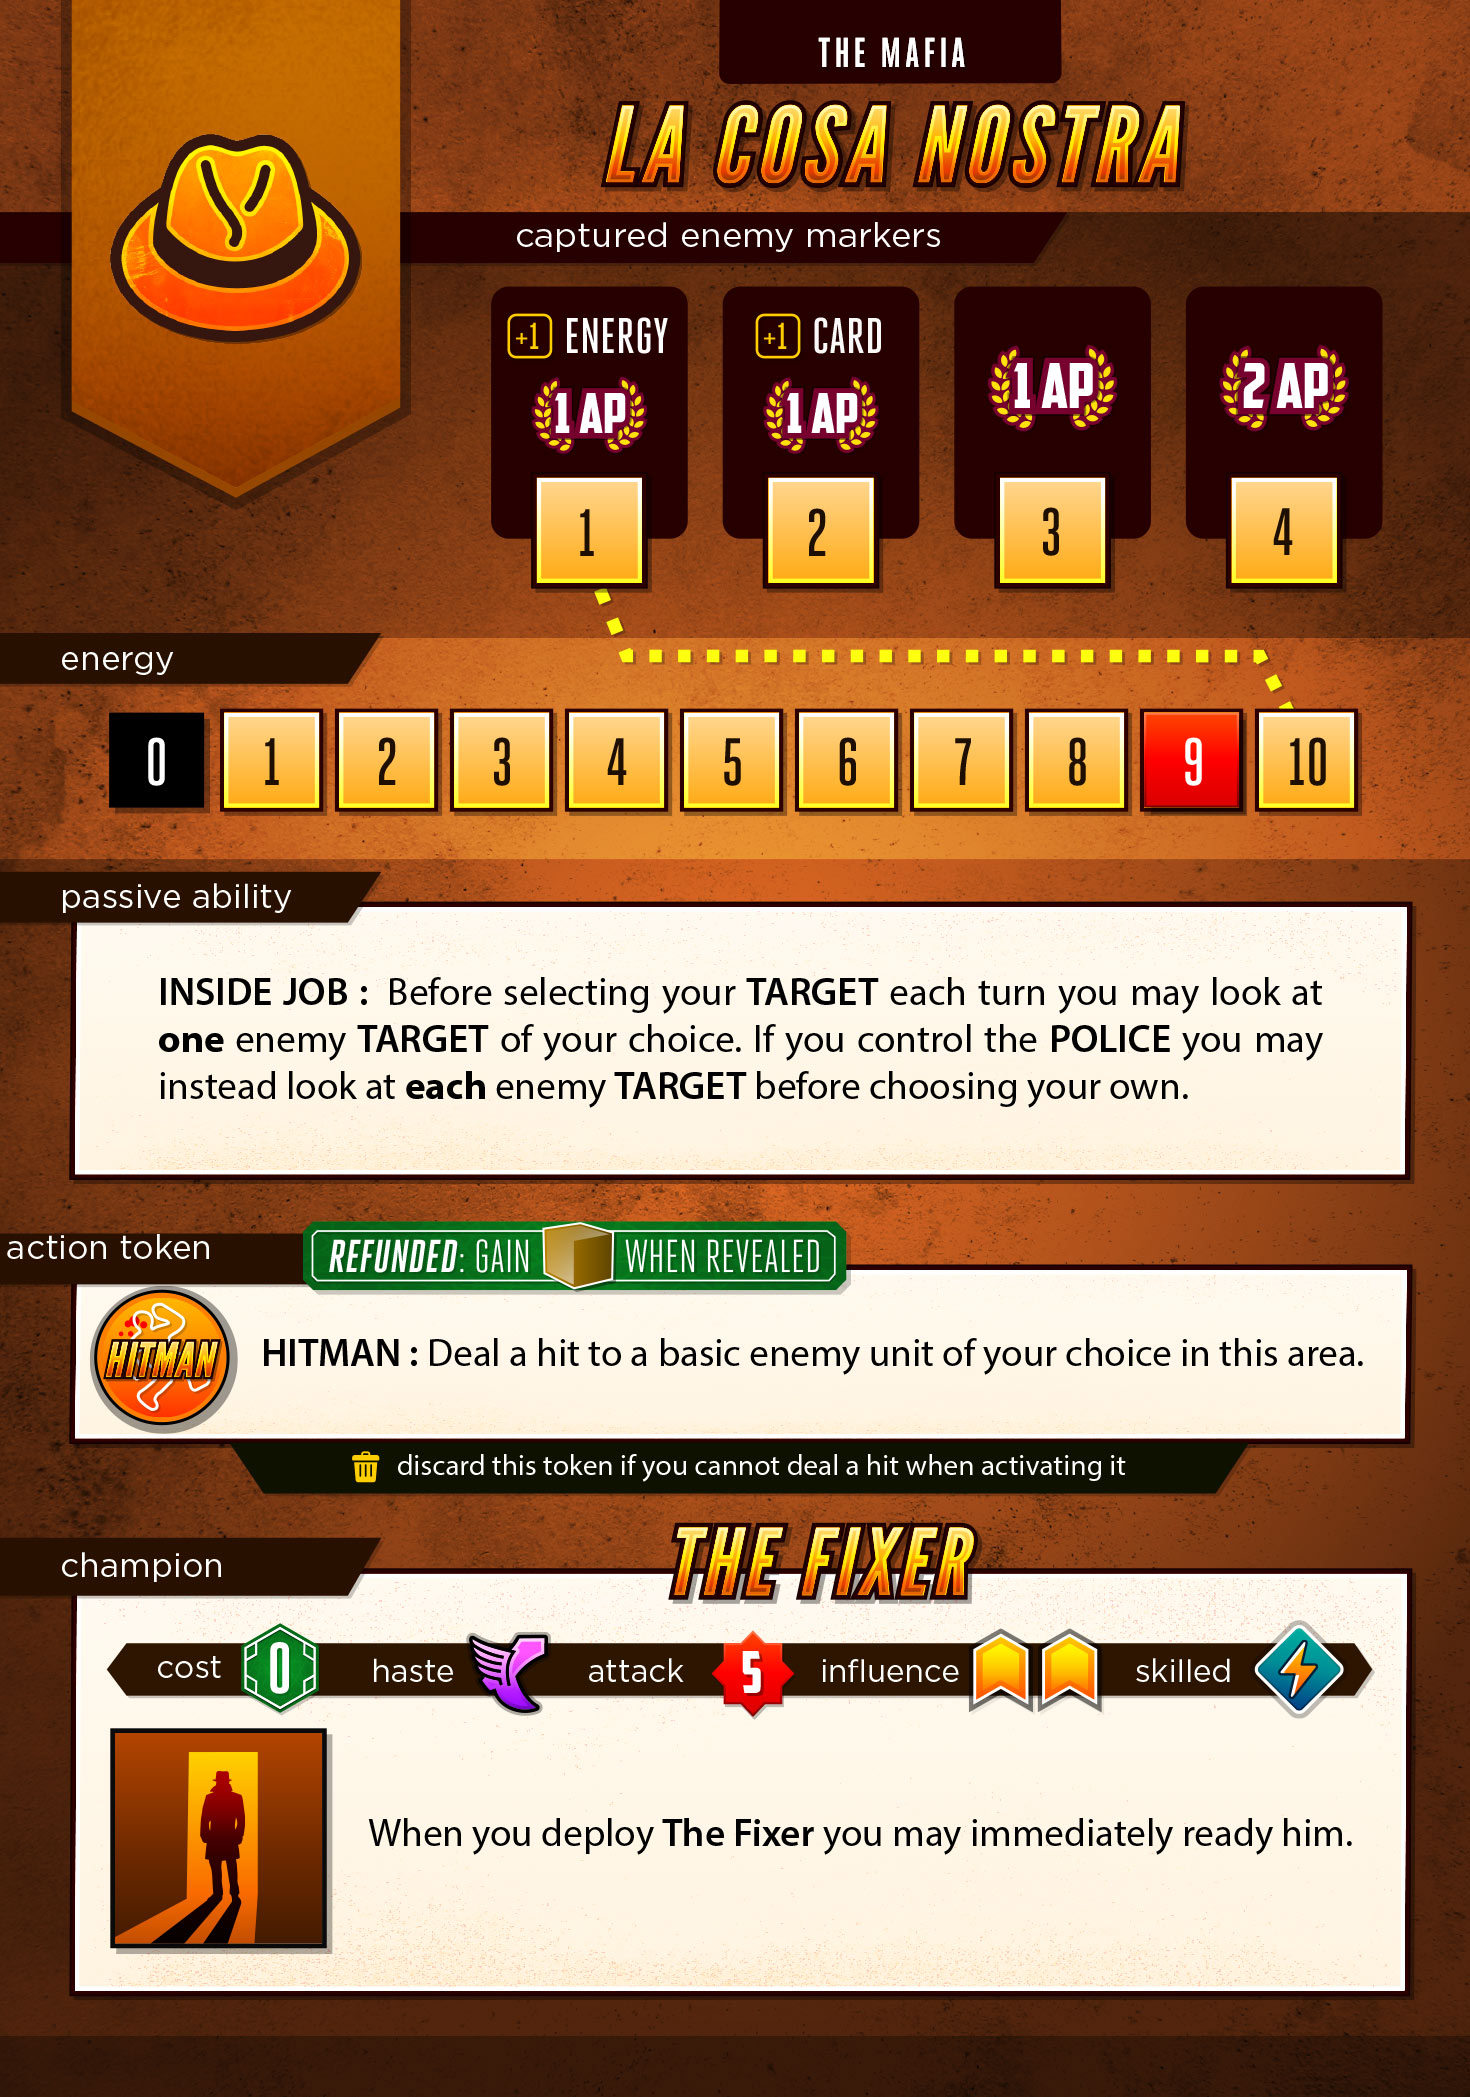
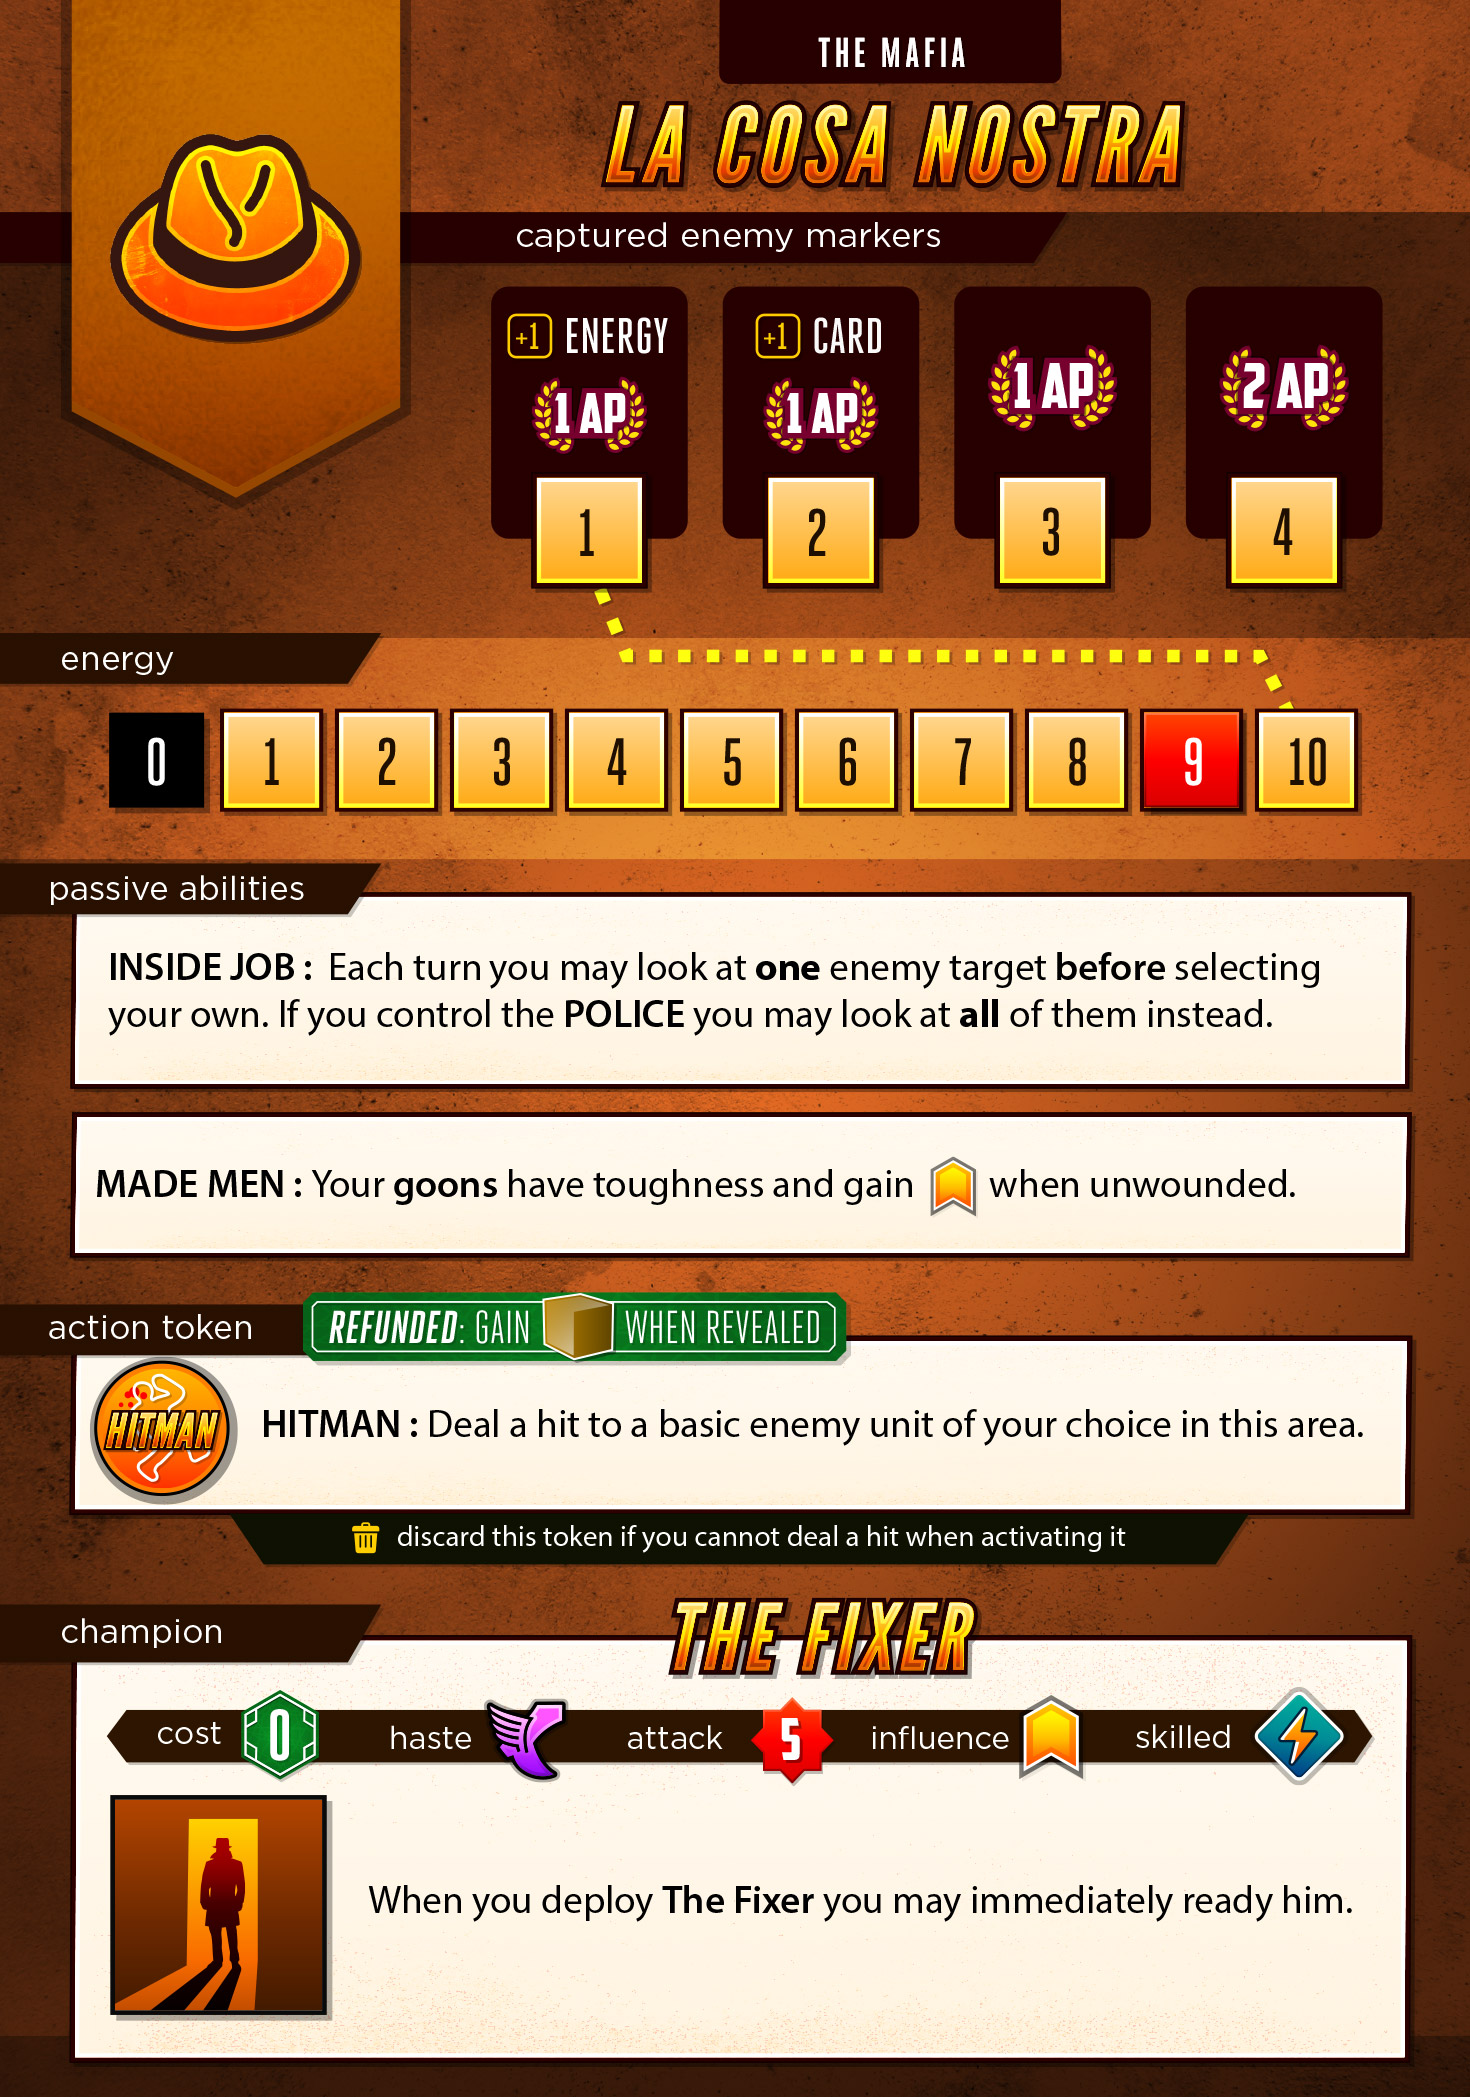
MAFIA: Improve goons, reduce fixer influence

diff --git a/server/classes/factions/Mafia.js b/server/classes/factions/Mafia.js
@@ -35,6 +35,10 @@ class Mafia extends Faction {
         // units
         this.units['talent'].count = 2;
         this.units['patsy'].count = 5;
+        this.units['goon'].data.influence = 2;
+        this.units['goon'].data.toughness = true;
+        this.units['goon'].data.flipped = false;
+        this.units['goon'].data.onWounded = 'onGoonWounded';
 
         this.units['champion'] = {
             count: 1,
@@ -45,7 +49,7 @@ class Mafia extends Faction {
                 type: 'champion',
                 onDeploy : 'fixerDeploy',
                 basic: false,
-                influence: 2,
+                influence: 1,
                 attack: [5],
                 cost: 0,
                 killed : false,
@@ -75,6 +79,14 @@ class Mafia extends Faction {
 
     }
 
+    onGoonWounded( unit ){
+        unit.influence = 1;
+    }
+
+    unflipUnit( unit ){
+        unit.influence = 2;
+        unit.flipped = false;
+    }
 
     /**
      * Reset the faction we are spying on end of turn trigger
